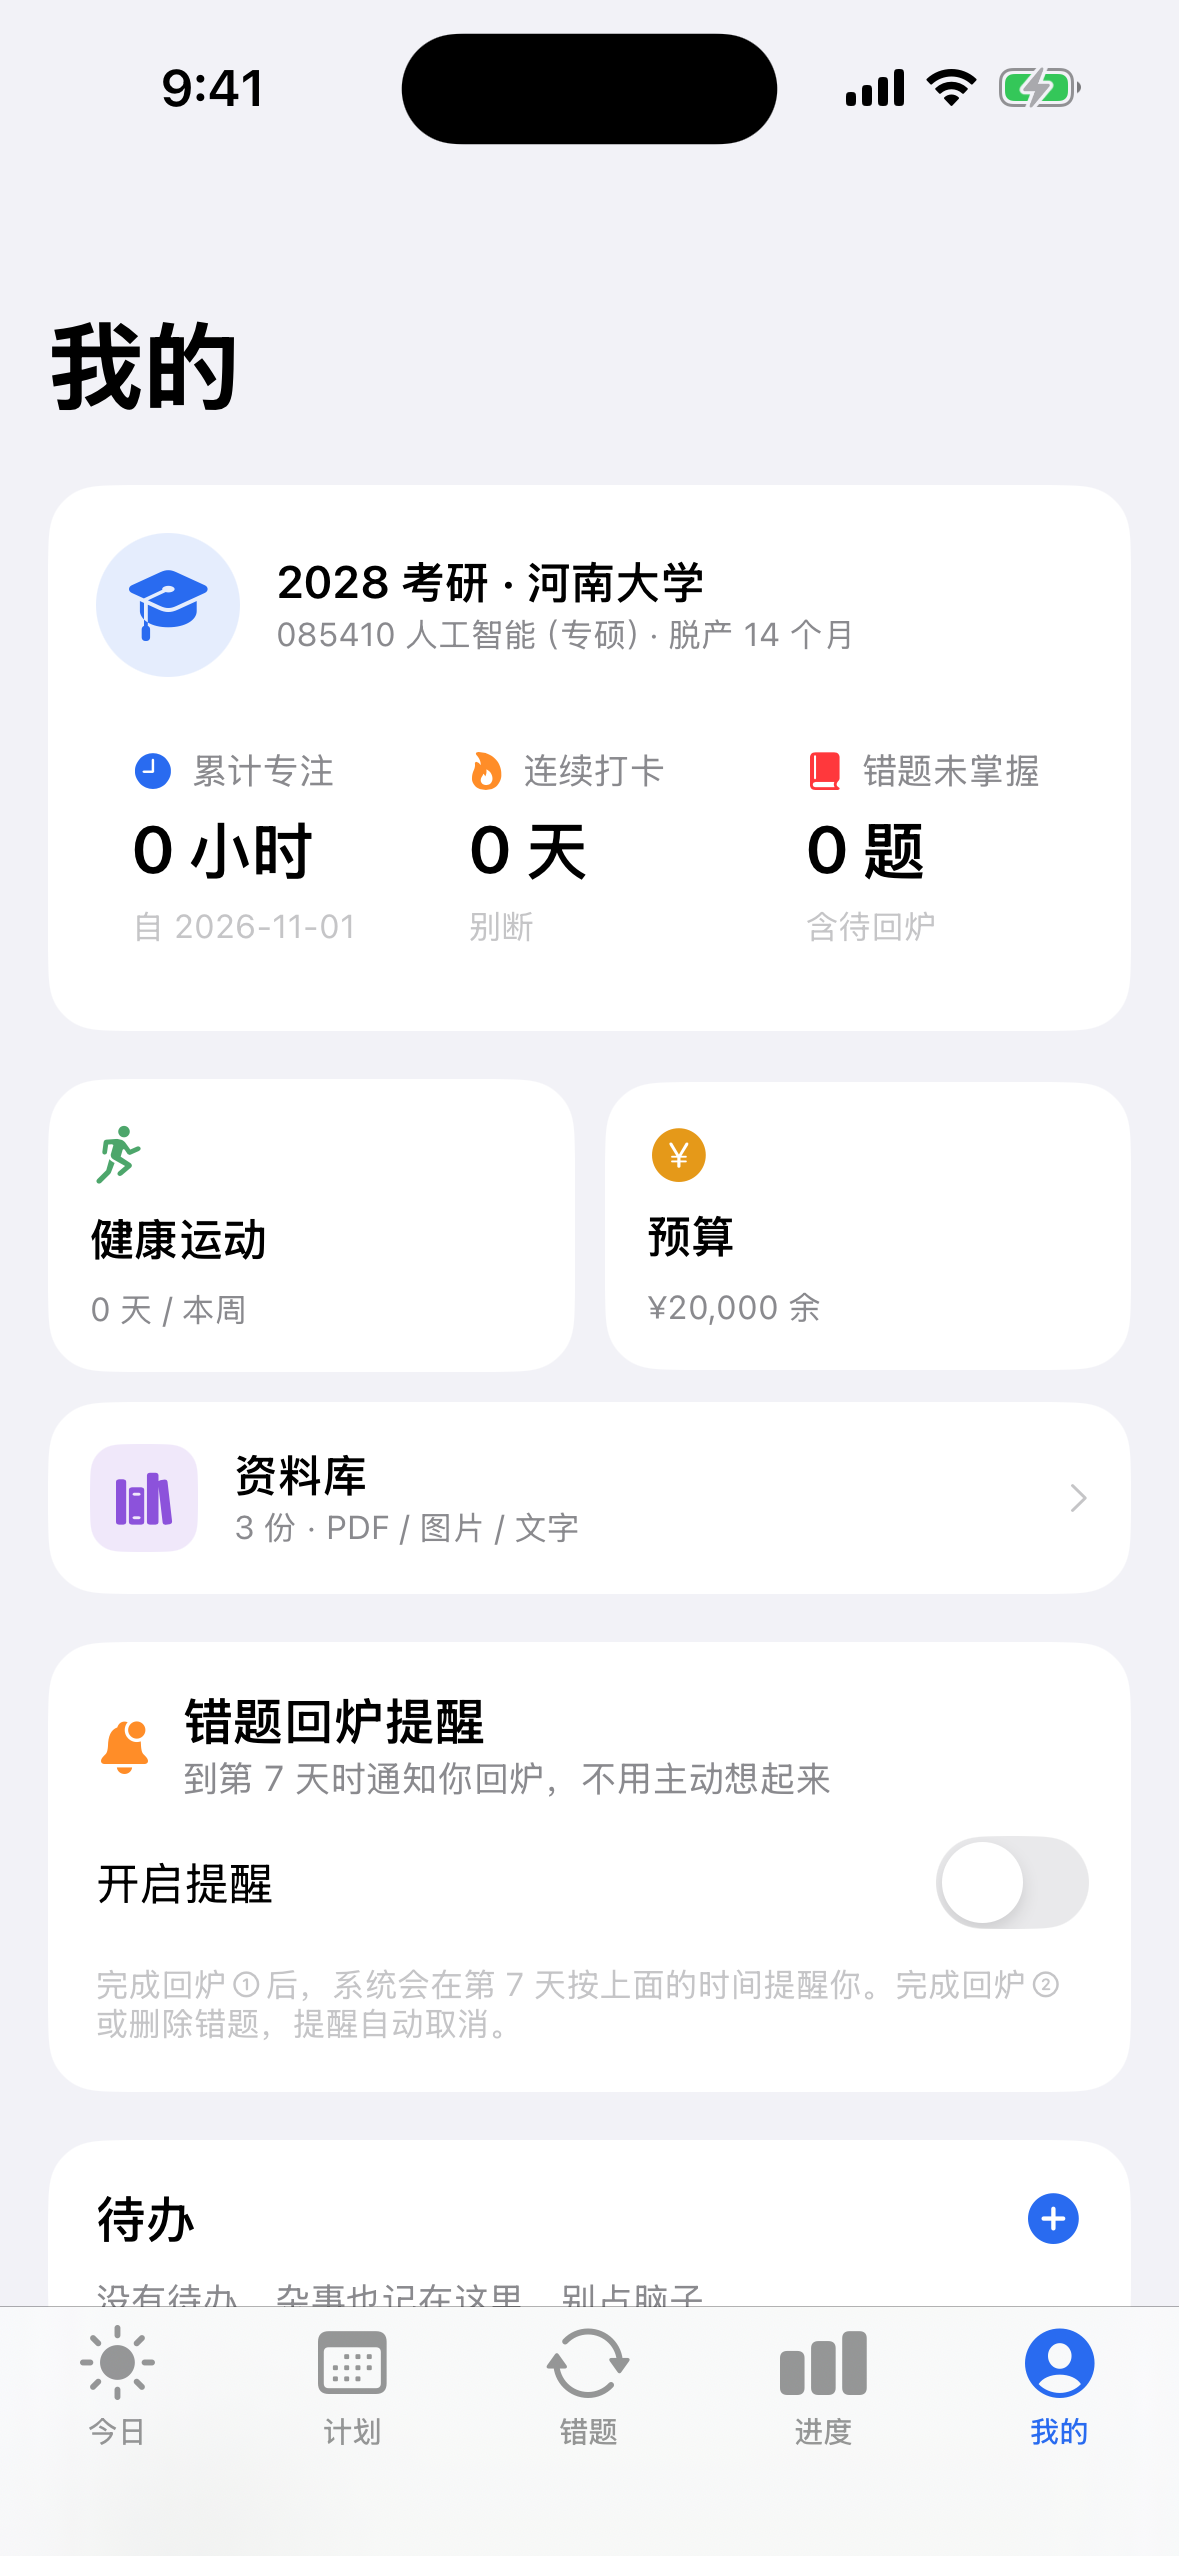
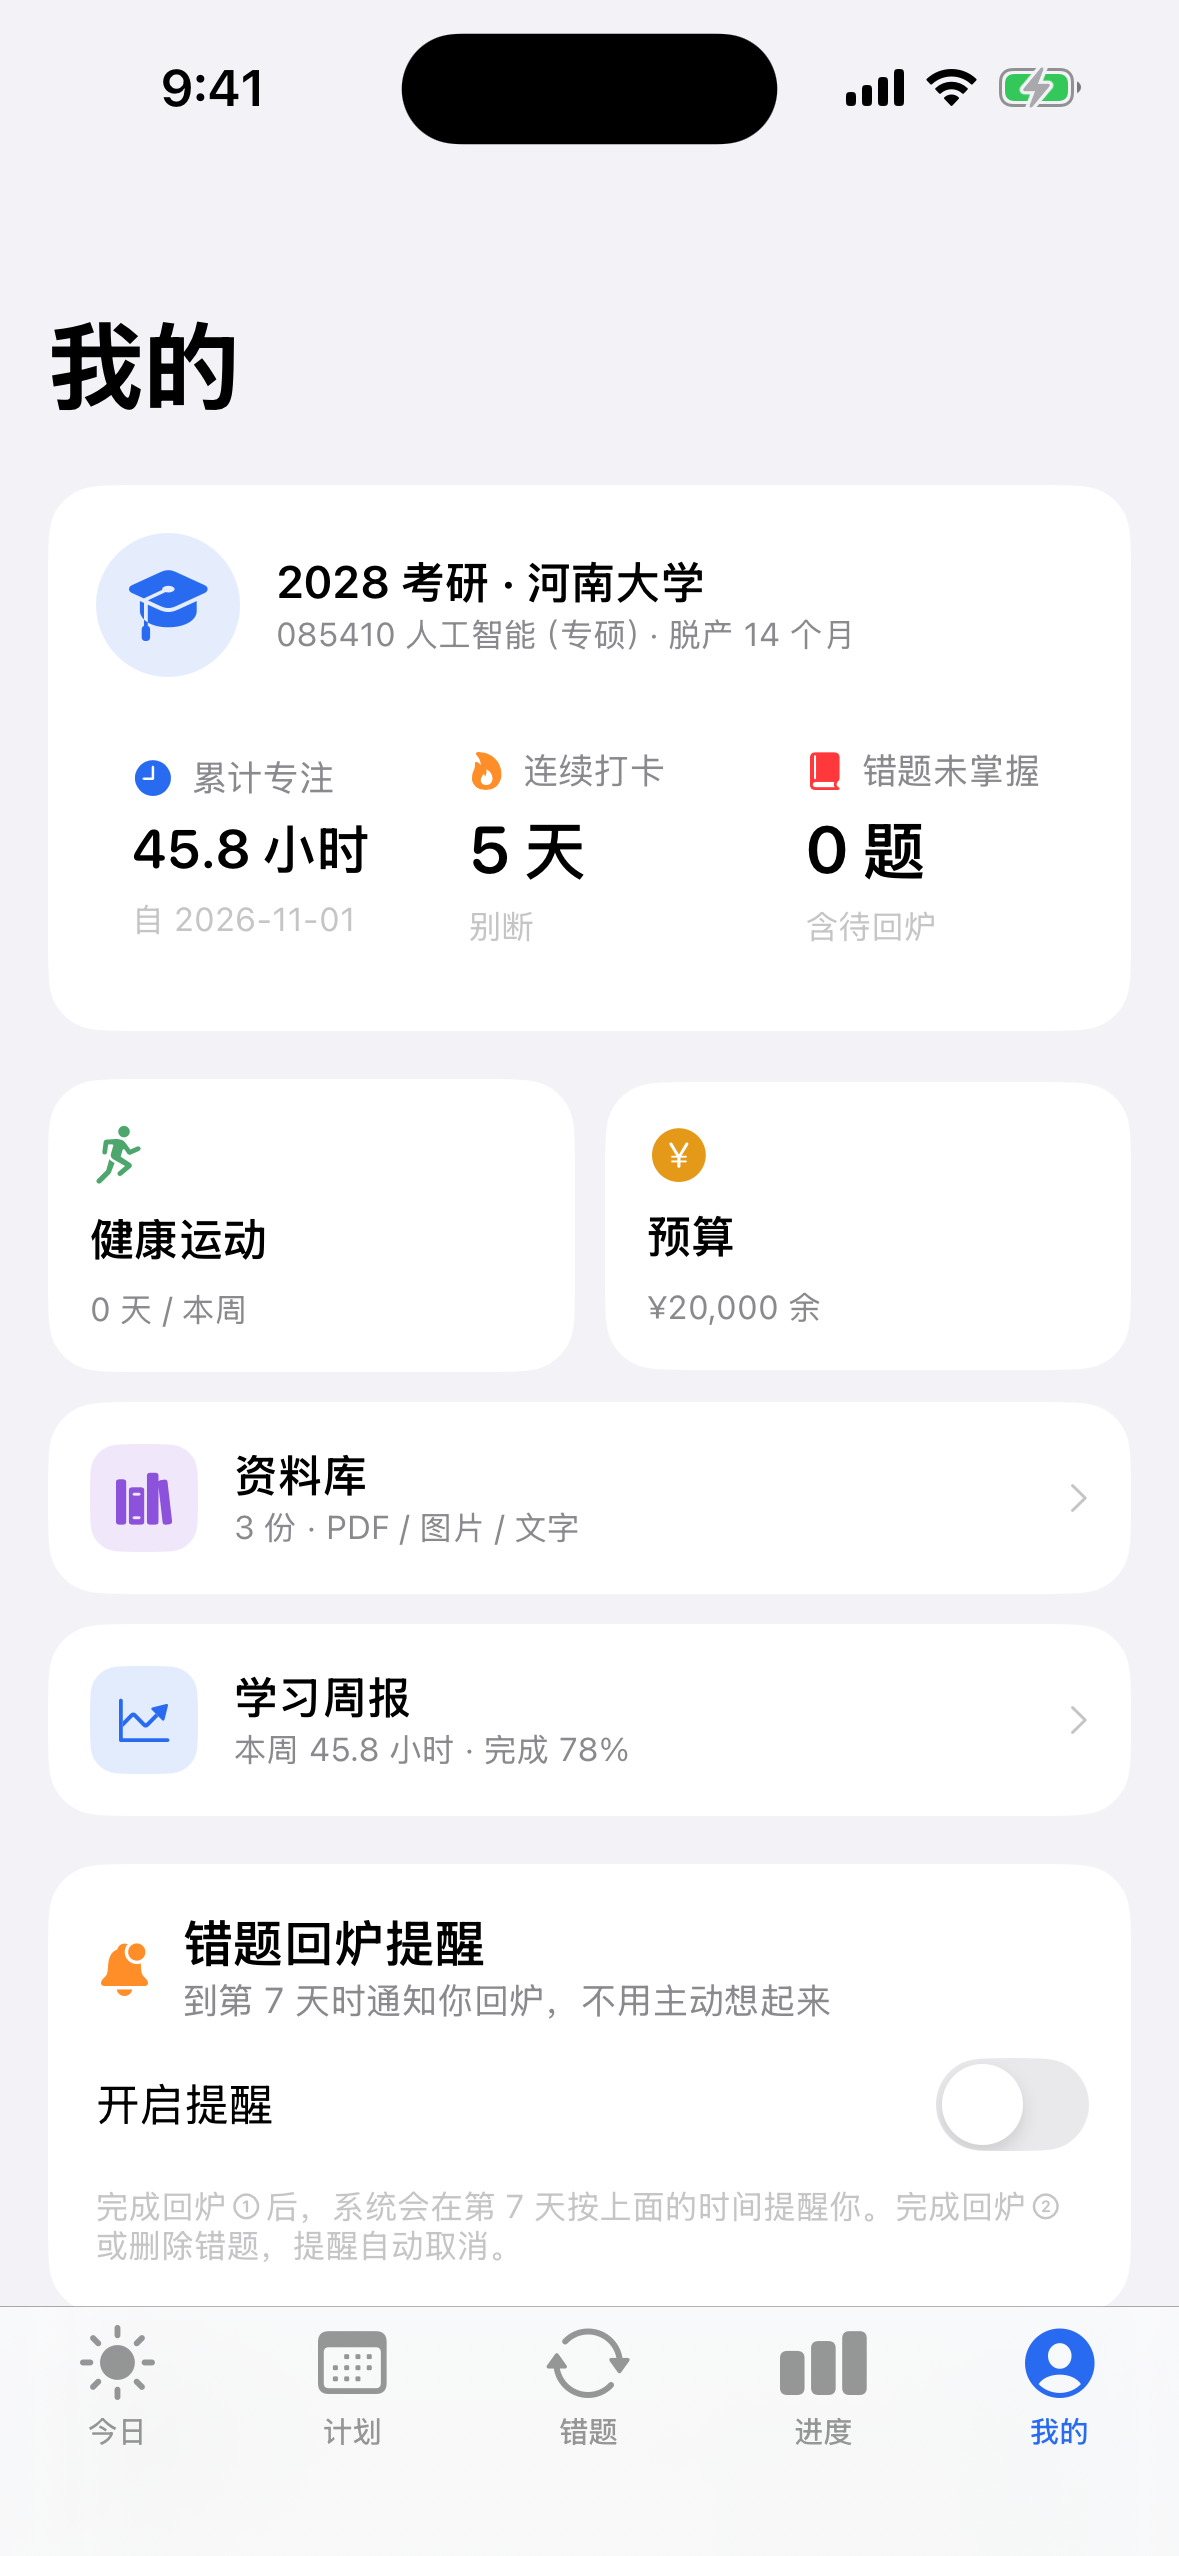
fix: 上周无数据时不显示虚假的涨幅对比

diff --git a/KaoyanWorkbench/Features/Report/WeeklyReportView.swift b/KaoyanWorkbench/Features/Report/WeeklyReportView.swift
@@ -135,7 +135,24 @@ struct WeeklyReportView: View {
         }
     }
 
+    @ViewBuilder
     private var comparisonRow: some View {
+        if report.lastWeekHours <= 0 {
+            // 上周没记录时，别显示「+45.8 小时」这种虚假涨幅
+            HStack(spacing: 5) {
+                Image(systemName: "sparkles")
+                    .font(.caption2)
+                    .foregroundStyle(Theme.accent)
+                Text(report.totalHours > 0 ? "上周没有记录，这周就是起点" : "还没有开始记录")
+                    .font(.caption2)
+                    .foregroundStyle(Theme.secondaryLabel)
+            }
+        } else {
+            comparisonDelta
+        }
+    }
+
+    private var comparisonDelta: some View {
         let diff = report.comparedToLastWeek
         let sign = diff >= 0 ? "+" : "−"
         let text = String(format: "%@%.1f", sign, abs(diff))
